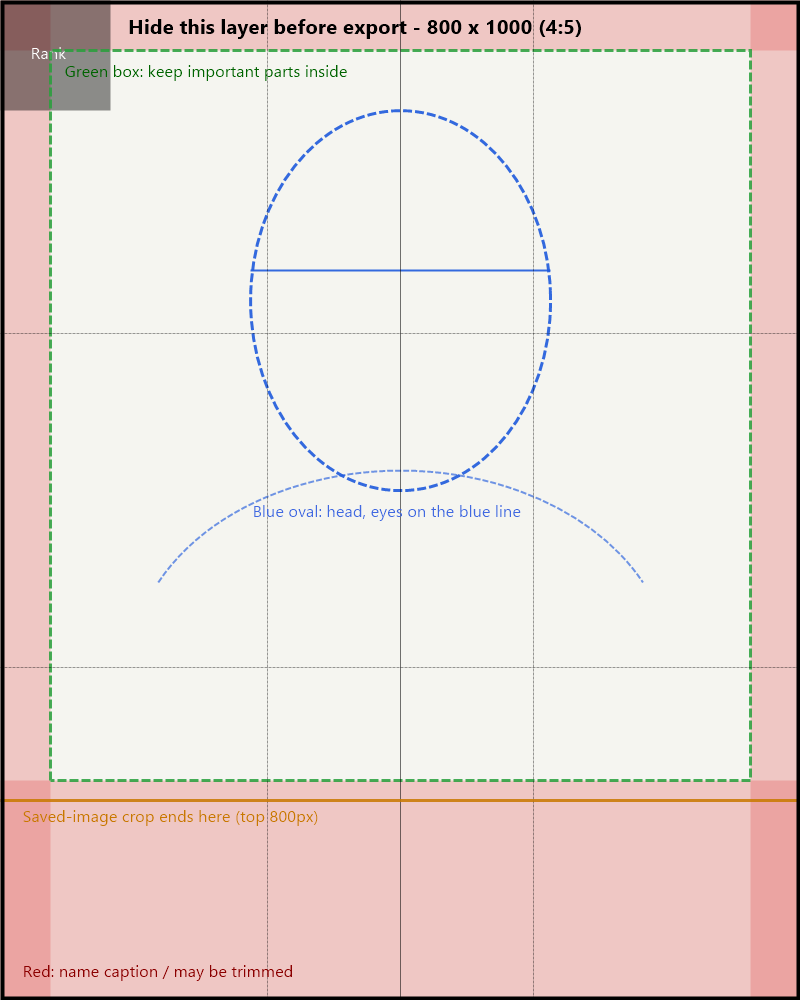
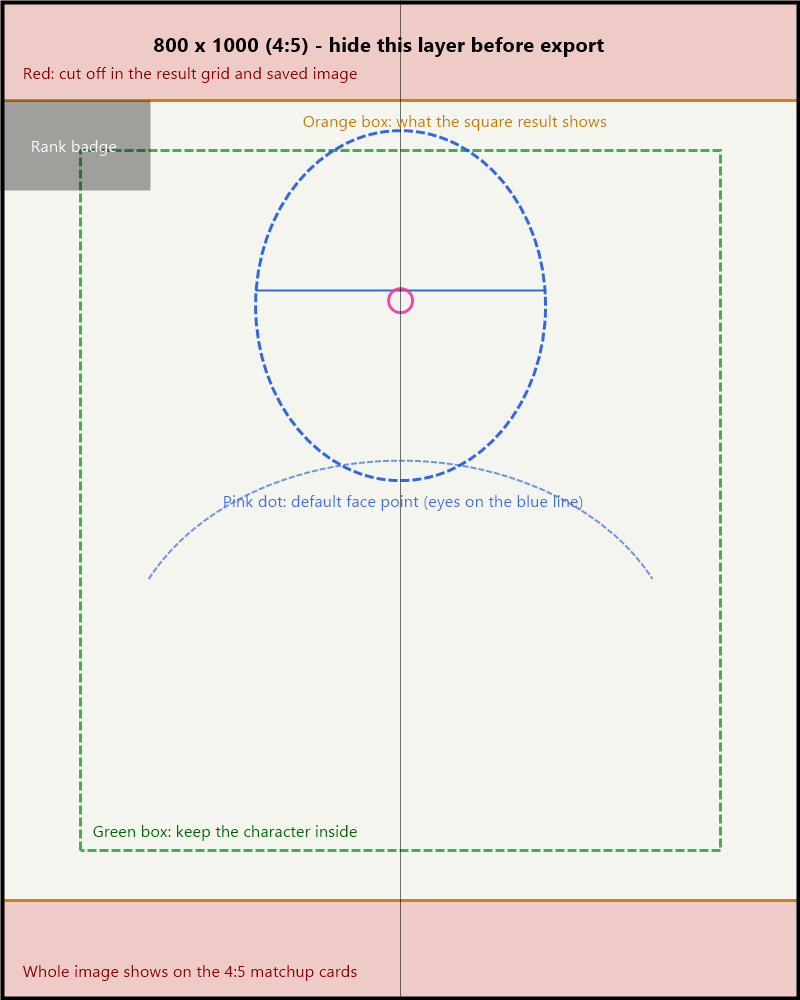
Add photo framing tool and hide unfinished teams
Photos are now cropped around a per-photo face point (src/framing.json),
with optional zoom or a whole-photo view over a blurred backdrop. A
local-only editor (npm run dev) sets these and saves them to the file.
Gakuto and Shiraishi are pre-framed. Initials use first + last name.

U-17 and World Cup teams stay in the roster but are hidden from the
site until their photos are ready. Template updated for 800x1000.

diff --git a/src/App.jsx b/src/App.jsx
@@ -1,6 +1,8 @@
 import { useEffect, useMemo, useRef, useState } from 'react'
 import { activeSchools, players, schoolMap } from './data.js'
 import { TOP_COUNT, choose, currentPair, progress, startSort } from './sorter.js'
+import { frameFor, layoutFor, toStyle } from './framing.js'
+import FrameEditor from './FrameEditor.jsx'
 
 const playerMap = Object.fromEntries(players.map((player) => [player.id, player]))
 const SAVE_KEY = 'favorite-faces-top9'
@@ -21,31 +23,44 @@ const loadSaved = () => {
   return null
 }
 
-function Portrait({ player, className = '' }) {
+const sourcesFor = (player) => [player.image, player.image.replace(/\.webp$/i, '.png'), player.image.replace(/\.webp$/i, '.jpg')]
+
+// aspect is the box's width / height: 4:5 cards by default, 1 for the square result grid.
+function Portrait({ player, aspect = 0.8, frame, className = '' }) {
   const [index, setIndex] = useState(0)
-  const [loaded, setLoaded] = useState(false)
-  const sources = [player.image, player.image.replace(/\.webp$/i, '.png'), player.image.replace(/\.webp$/i, '.jpg')]
+  const [size, setSize] = useState(null)
+  const sources = sourcesFor(player)
   const school = schoolMap[player.schoolId]
-  const initials = initialsOf(player)
+  const framing = frame || frameFor(player.id)
+  const layout = size ? toStyle(layoutFor(framing, size.w, size.h, aspect)) : null
 
   return (
-    <div className={`portrait ${className}`} style={{ '--team': school.color, '--accent': school.accent }} role="img" aria-label={player.name}>
-      <span className="monogram">{initials}</span>
+    <div
+      className={`portrait ${className}`}
+      style={{ '--team': school.color, '--accent': school.accent, aspectRatio: aspect }}
+      role="img"
+      aria-label={player.name}
+    >
+      <span className="monogram">{initialsOf(player)}</span>
       {index < sources.length && (
-        <img
-          key={sources[index]}
-          src={sources[index]}
-          alt=""
-          className={loaded ? 'loaded' : ''}
-          onLoad={() => setLoaded(true)}
-          onError={() => setIndex((current) => current + 1)}
-        />
+        <>
+          {framing.fit && layout && <img className="backdrop" src={sources[index]} alt="" />}
+          <img
+            key={sources[index]}
+            src={sources[index]}
+            alt=""
+            className={layout ? 'loaded' : ''}
+            style={layout || undefined}
+            onLoad={(event) => setSize({ w: event.target.naturalWidth, h: event.target.naturalHeight })}
+            onError={() => setIndex((current) => current + 1)}
+          />
+        </>
       )}
     </div>
   )
 }
 
-function Intro({ onStart, resumeTeam, onResume }) {
+function Intro({ onStart, resumeTeam, onResume, onEditFraming }) {
   const [team, setTeam] = useState(ALL)
   const pool = playersFor(team)
   const preview = useMemo(() => [...playersFor(team)].sort(() => Math.random() - 0.5).slice(0, 9), [team])
@@ -79,6 +94,7 @@ function Intro({ onStart, resumeTeam, onResume }) {
         <p className="count">Your Top {topCount} from {pool.length} characters{team !== ALL && ` in ${teamLabel(team)}`}.</p>
         <button className="primary" onClick={() => onStart(team)}>Start →</button>
         {onResume && <button className="link" onClick={onResume}>Resume where I left off ({teamLabel(resumeTeam)})</button>}
+        {import.meta.env.DEV && <button className="link" onClick={onEditFraming}>Adjust photo framing (local only)</button>}
       </section>
     </main>
   )
@@ -126,10 +142,13 @@ function Matchup({ state, history, count, team, onPick, onBack, onHome }) {
 // Rank index shown in each grid cell, left to right: 4 5 6 / 2 1 3 / 7 8 9, so #1 sits in the middle.
 const GRID_ORDER = [3, 4, 5, 1, 0, 2, 6, 7, 8]
 
-const initialsOf = (player) => player.name.split(/\s+/).map((part) => part[0]).slice(0, 2).join('')
+const initialsOf = (player) => {
+  const parts = player.name.replace(/\./g, '').split(/\s+/)
+  return (parts.length > 1 ? parts[0][0] + parts[parts.length - 1][0] : parts[0].slice(0, 2)).toUpperCase()
+}
 
 const loadPortrait = (player) => new Promise((resolve) => {
-  const sources = [player.image, player.image.replace(/\.webp$/i, '.png'), player.image.replace(/\.webp$/i, '.jpg')]
+  const sources = sourcesFor(player)
   const tryLoad = (n) => {
     if (n >= sources.length) return resolve(null)
     const img = new Image()
@@ -199,8 +218,14 @@ function Result({ ranked, team, onRestart }) {
       ctx.roundRect(x, y, size, size, 22)
       ctx.clip()
       if (img) {
-        const scale = Math.max(size / img.width, size / img.height)
-        ctx.drawImage(img, x + (size - img.width * scale) / 2, y, img.width * scale, img.height * scale)
+        const frame = frameFor(player.id)
+        const draw = (box) => ctx.drawImage(img, x + box.left * size, y + box.top * size, box.width * size, box.height * size)
+        if (frame.fit) {
+          ctx.filter = 'blur(18px) brightness(.85)'
+          draw(layoutFor({ ...frame, fit: false, zoom: 1.15 }, img.width, img.height, 1))
+          ctx.filter = 'none'
+        }
+        draw(layoutFor(frame, img.width, img.height, 1))
       } else {
         ctx.fillStyle = school.color
         ctx.fillRect(x, y, size, size)
@@ -242,7 +267,7 @@ function Result({ ranked, team, onRestart }) {
         {cells.map(({ rank, player }) => (
           <figure key={player.id} className={rank === 0 ? 'first' : ''}>
             <div className="frame">
-              <Portrait player={player} />
+              <Portrait player={player} aspect={1} />
               <b className="rank">#{rank + 1}</b>
             </div>
             <figcaption>
@@ -282,6 +307,7 @@ function Result({ ranked, team, onRestart }) {
 export default function App() {
   const [session, setSession] = useState(null)
   const [saved, setSaved] = useState(loadSaved)
+  const [editingFraming, setEditingFraming] = useState(false)
   const history = session?.history
   const state = history?.[history.length - 1]
   const ids = useMemo(() => (session ? idsFor(session.team) : []), [session?.team])
@@ -306,12 +332,14 @@ export default function App() {
     setSession(null)
   }
 
+  if (editingFraming) return <FrameEditor Portrait={Portrait} onClose={() => setEditingFraming(false)} />
   if (!session) {
     return (
       <Intro
         onStart={(team) => setSession({ team, history: [startSort(idsFor(team))] })}
         resumeTeam={saved?.team}
         onResume={saved ? () => setSession(saved) : null}
+        onEditFraming={() => setEditingFraming(true)}
       />
     )
   }

diff --git a/src/FrameEditor.jsx b/src/FrameEditor.jsx
@@ -1,0 +1,99 @@
+import { useEffect, useState } from 'react'
+import { activeSchools, players } from './data.js'
+import { DEFAULT_FRAME, frameFor, frames } from './framing.js'
+
+// Local-only tool: click the face on each photo so every crop centers on it.
+// Saving writes src/framing.json through the dev server (see vite.config.js).
+export default function FrameEditor({ Portrait, onClose }) {
+  const [selectedId, setSelectedId] = useState(players[0].id)
+  const [frame, setFrame] = useState(() => frameFor(players[0].id))
+  const [status, setStatus] = useState('')
+  const [version, setVersion] = useState(0)
+  const index = players.findIndex((player) => player.id === selectedId)
+  const player = players[index]
+
+  const select = (id) => {
+    setSelectedId(id)
+    setFrame(frameFor(id))
+    setStatus('')
+  }
+  const step = (offset) => select(players[(index + offset + players.length) % players.length].id)
+
+  const save = async (next) => {
+    const isDefault = Object.keys(DEFAULT_FRAME).every((key) => next[key] === DEFAULT_FRAME[key])
+    if (isDefault) delete frames[selectedId]
+    else frames[selectedId] = { x: round(next.x), y: round(next.y), zoom: round(next.zoom), ...(next.fit && { fit: true }) }
+    setVersion((value) => value + 1)
+    try {
+      const response = await fetch('/__framing', { method: 'POST', body: JSON.stringify(frames) })
+      setStatus(response.ok ? 'Saved' : 'Could not save')
+    } catch {
+      setStatus('Could not save')
+    }
+  }
+  const update = (changes) => {
+    const next = { ...frame, ...changes }
+    setFrame(next)
+    save(next)
+  }
+
+  useEffect(() => {
+    const onKey = (event) => {
+      if (event.key === 'ArrowRight') step(1)
+      if (event.key === 'ArrowLeft') step(-1)
+    }
+    window.addEventListener('keydown', onKey)
+    return () => window.removeEventListener('keydown', onKey)
+  })
+
+  const pickFace = (event) => {
+    const box = event.currentTarget.getBoundingClientRect()
+    update({ x: (event.clientX - box.left) / box.width, y: (event.clientY - box.top) / box.height })
+  }
+
+  return (
+    <main className="screen framer">
+      <div className="topbar">
+        <button className="home" onClick={onClose}>⌂ Home</button>
+        <span>Photo framing · local only · {status}</span>
+      </div>
+      <h2>{player.name} <small>{index + 1} / {players.length}</small></h2>
+      <p className="sub">Click the face. Every card and the saved image will center on that spot. Use ← → to move between photos.</p>
+
+      <div className="framer-work">
+        <div className="framer-source" onClick={pickFace}>
+          <img src={player.image} alt="" onError={(event) => { event.currentTarget.src = player.image.replace(/\.webp$/i, '.jpg') }} />
+          <i className="marker" style={{ left: `${frame.x * 100}%`, top: `${frame.y * 100}%` }} />
+        </div>
+        <div className="framer-previews">
+          <figure><Portrait key={`${player.id}-card`} player={player} frame={frame} /><figcaption>Matchup card</figcaption></figure>
+          <figure><Portrait key={`${player.id}-square`} player={player} frame={frame} aspect={1} /><figcaption>Result + saved image</figcaption></figure>
+        </div>
+      </div>
+
+      <div className="framer-controls">
+        <label>Zoom <input type="range" min="1" max="3" step="0.05" value={frame.zoom} disabled={frame.fit} onChange={(event) => update({ zoom: Number(event.target.value) })} /> {frame.zoom.toFixed(2)}×</label>
+        <label><input type="checkbox" checked={frame.fit} onChange={(event) => update({ fit: event.target.checked })} /> Show whole photo (blurred background)</label>
+        <button className="secondary" onClick={() => update(DEFAULT_FRAME)}>Reset</button>
+        <button className="secondary" onClick={() => step(-1)}>← Prev</button>
+        <button className="secondary" onClick={() => step(1)}>Next →</button>
+      </div>
+
+      {activeSchools.map((school) => (
+        <section key={school.id} className="framer-team">
+          <h3>{school.name}</h3>
+          <div className="framer-grid" data-version={version}>
+            {players.filter((item) => item.schoolId === school.id).map((item) => (
+              <button key={item.id} className={item.id === selectedId ? 'active' : ''} onClick={() => select(item.id)} title={item.name}>
+                <Portrait key={`${item.id}-${version}`} player={item} frame={item.id === selectedId ? frame : undefined} />
+                {frames[item.id] && <b>✓</b>}
+              </button>
+            ))}
+          </div>
+        </section>
+      ))}
+    </main>
+  )
+}
+
+const round = (value) => Math.round(value * 1000) / 1000

diff --git a/src/styles.css b/src/styles.css
@@ -29,8 +29,27 @@ h2 { margin: 18px 0 14px; font-size: 20px; font-weight: 800; }
 
 .portrait { position: relative; aspect-ratio: 4 / 5; overflow: hidden; border-radius: 10px; background: var(--team, #ddd); }
 .portrait .monogram { position: absolute; inset: 0; display: grid; place-items: center; color: var(--accent, #fff); font-weight: 800; font-size: 44px; letter-spacing: .02em; }
-.portrait img { position: absolute; inset: 0; width: 100%; height: 100%; object-fit: cover; object-position: center top; opacity: 0; }
+.portrait img { position: absolute; max-width: none; opacity: 0; }
 .portrait img.loaded { opacity: 1; }
+.portrait img.backdrop { inset: -10%; width: 120%; height: 120%; object-fit: cover; filter: blur(14px) brightness(.85); opacity: 1; }
+
+.framer { max-width: 900px; }
+.framer h2 small { font-size: 13px; color: var(--muted); font-weight: 500; }
+.framer-work { display: grid; grid-template-columns: minmax(0, 1fr) 240px; gap: 16px; align-items: start; }
+.framer-source { position: relative; cursor: crosshair; border-radius: 10px; overflow: hidden; line-height: 0; }
+.framer-source img { width: 100%; height: auto; }
+.marker { position: absolute; width: 28px; height: 28px; margin: -14px 0 0 -14px; border: 3px solid #fff; border-radius: 50%; box-shadow: 0 0 0 2px var(--pink), 0 0 12px rgba(0,0,0,.5); pointer-events: none; }
+.framer-previews { display: grid; grid-template-columns: 1fr 1fr; gap: 10px; }
+.framer-previews figure { margin: 0; }
+.framer-previews figcaption { margin-top: 4px; font-size: 11px; color: var(--muted); }
+.framer-controls { display: flex; flex-wrap: wrap; align-items: center; justify-content: center; gap: 12px 18px; margin: 18px 0; font-size: 14px; }
+.framer-controls .secondary { padding: 8px 14px; }
+.framer-team h3 { margin: 18px 0 8px; text-align: left; font-size: 15px; }
+.framer-grid { display: grid; grid-template-columns: repeat(auto-fill, minmax(72px, 1fr)); gap: 8px; }
+.framer-grid button { position: relative; padding: 0; border: 2px solid transparent; border-radius: 12px; background: none; }
+.framer-grid button.active { border-color: var(--violet); }
+.framer-grid b { position: absolute; top: 4px; right: 4px; z-index: 3; padding: 0 5px; border-radius: 99px; color: #fff; font-size: 11px; background: var(--violet); }
+@media (max-width: 760px) { .framer-work { grid-template-columns: 1fr; } }
 
 .grid3 { display: grid; grid-template-columns: repeat(3, 1fr); gap: 8px; padding: 8px; background: var(--soft); border-radius: 14px; }
 .grid3.preview .monogram { font-size: 30px; }

diff --git a/src/framing.js b/src/framing.js
@@ -1,0 +1,37 @@
+import saved from './framing.json'
+
+// Per-photo framing, keyed by player id. x/y are the face position as a fraction of the
+// original photo (0 = left/top, 1 = right/bottom); zoom > 1 crops in; fit shows the whole
+// photo over a blurred copy of itself instead of cropping.
+export const DEFAULT_FRAME = { x: 0.5, y: 0.3, zoom: 1, fit: false }
+
+export const frames = { ...saved }
+
+export const frameFor = (id) => ({ ...DEFAULT_FRAME, ...frames[id] })
+
+// Where to place a photo of size imgW×imgH inside a box of the given aspect (width / height)
+// so the face point is as close to the center as possible without leaving empty edges.
+// Returns left/top/width/height as fractions of the box.
+export const layoutFor = (frame, imgW, imgH, aspect) => {
+  const boxH = 1 / aspect
+  if (frame.fit) {
+    const scale = Math.min(1 / imgW, boxH / imgH)
+    const width = imgW * scale
+    const height = imgH * scale
+    return { left: (1 - width) / 2, top: (boxH - height) / 2 / boxH, width, height: height / boxH }
+  }
+  const scale = Math.max(1 / imgW, boxH / imgH) * frame.zoom
+  const width = imgW * scale
+  const height = imgH * scale
+  const clamp = (value, min) => Math.min(0, Math.max(min, value))
+  const left = clamp(0.5 - frame.x * width, 1 - width)
+  const top = clamp(boxH / 2 - frame.y * height, boxH - height)
+  return { left, top: top / boxH, width, height: height / boxH }
+}
+
+export const toStyle = ({ left, top, width, height }) => ({
+  left: `${left * 100}%`,
+  top: `${top * 100}%`,
+  width: `${width * 100}%`,
+  height: `${height * 100}%`,
+})

diff --git a/vite.config.js b/vite.config.js
@@ -1,10 +1,43 @@
+import { writeFileSync } from 'node:fs'
+import { fileURLToPath } from 'node:url'
 import { defineConfig } from 'vite'
 import react from '@vitejs/plugin-react'
 
 const repositoryName = process.env.GITHUB_REPOSITORY?.split('/')[1]
+const framingFile = fileURLToPath(new URL('./src/framing.json', import.meta.url))
+
+// Local-only: lets the photo framing editor save src/framing.json while `npm run dev` runs.
+const framingSaver = {
+  name: 'framing-saver',
+  apply: 'serve',
+  configureServer(server) {
+    server.middlewares.use('/__framing', (req, res) => {
+      if (req.method !== 'POST') {
+        res.statusCode = 405
+        return res.end()
+      }
+      let body = ''
+      req.on('data', (chunk) => { body += chunk })
+      req.on('end', () => {
+        try {
+          const data = JSON.parse(body)
+          const sorted = Object.fromEntries(Object.keys(data).sort().map((key) => [key, data[key]]))
+          writeFileSync(framingFile, `${JSON.stringify(sorted, null, 2)}\n`)
+          res.end('ok')
+        } catch (error) {
+          res.statusCode = 400
+          res.end(String(error))
+        }
+      })
+    })
+  },
+  // The editor already holds the new values, so skip reloading the page on save.
+  handleHotUpdate({ file }) {
+    if (file === framingFile.replace(/\\/g, '/') || file === framingFile) return []
+  },
+}
 
 export default defineConfig({
-  plugins: [react()],
+  plugins: [react(), framingSaver],
   base: repositoryName ? `/${repositoryName}/` : '/',
 })
-

diff --git a/src/data.js b/src/data.js
@@ -160,11 +160,9 @@ const japaneseNames = {
 
 const slugify = (value) => value.toLowerCase().replace(/[.']/g, '').replace(/[^a-z0-9]+/g, '-').replace(/(^-|-$)/g, '')
 
-// Teams to include. Set to null to use the full roster.
-const ACTIVE_TEAMS = [
-  'seigaku', 'fudomine', 'rudolph', 'yamabuki', 'hyoutei', 'rokkaku', 'rikkai', 'higa', 'shiten',
-  'u17', 'germany', 'france', 'usa', 'spain',
-]
+// Teams shown on the site. U-17 and the World Cup teams are in the roster but hidden until their
+// photos are ready; add 'u17', 'germany', 'france', 'usa' and 'spain' here to show them.
+const ACTIVE_TEAMS = ['seigaku', 'fudomine', 'rudolph', 'yamabuki', 'hyoutei', 'rokkaku', 'rikkai', 'higa', 'shiten']
 
 export const activeSchools = schools.filter((school) => !ACTIVE_TEAMS || ACTIVE_TEAMS.includes(school.id))
 
